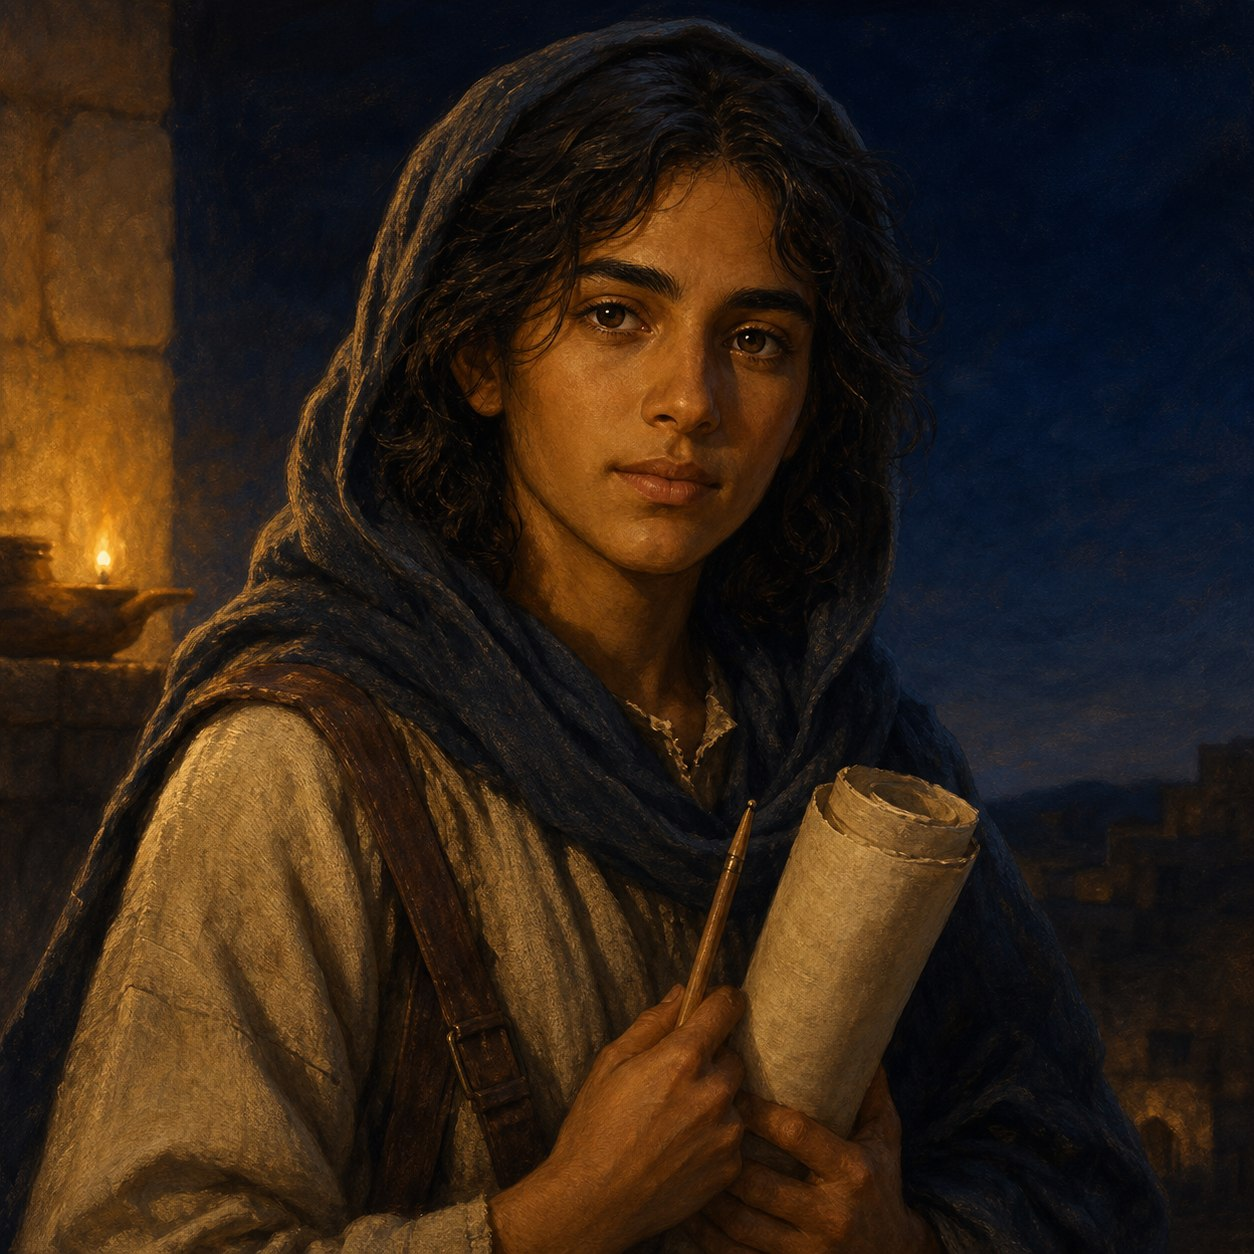
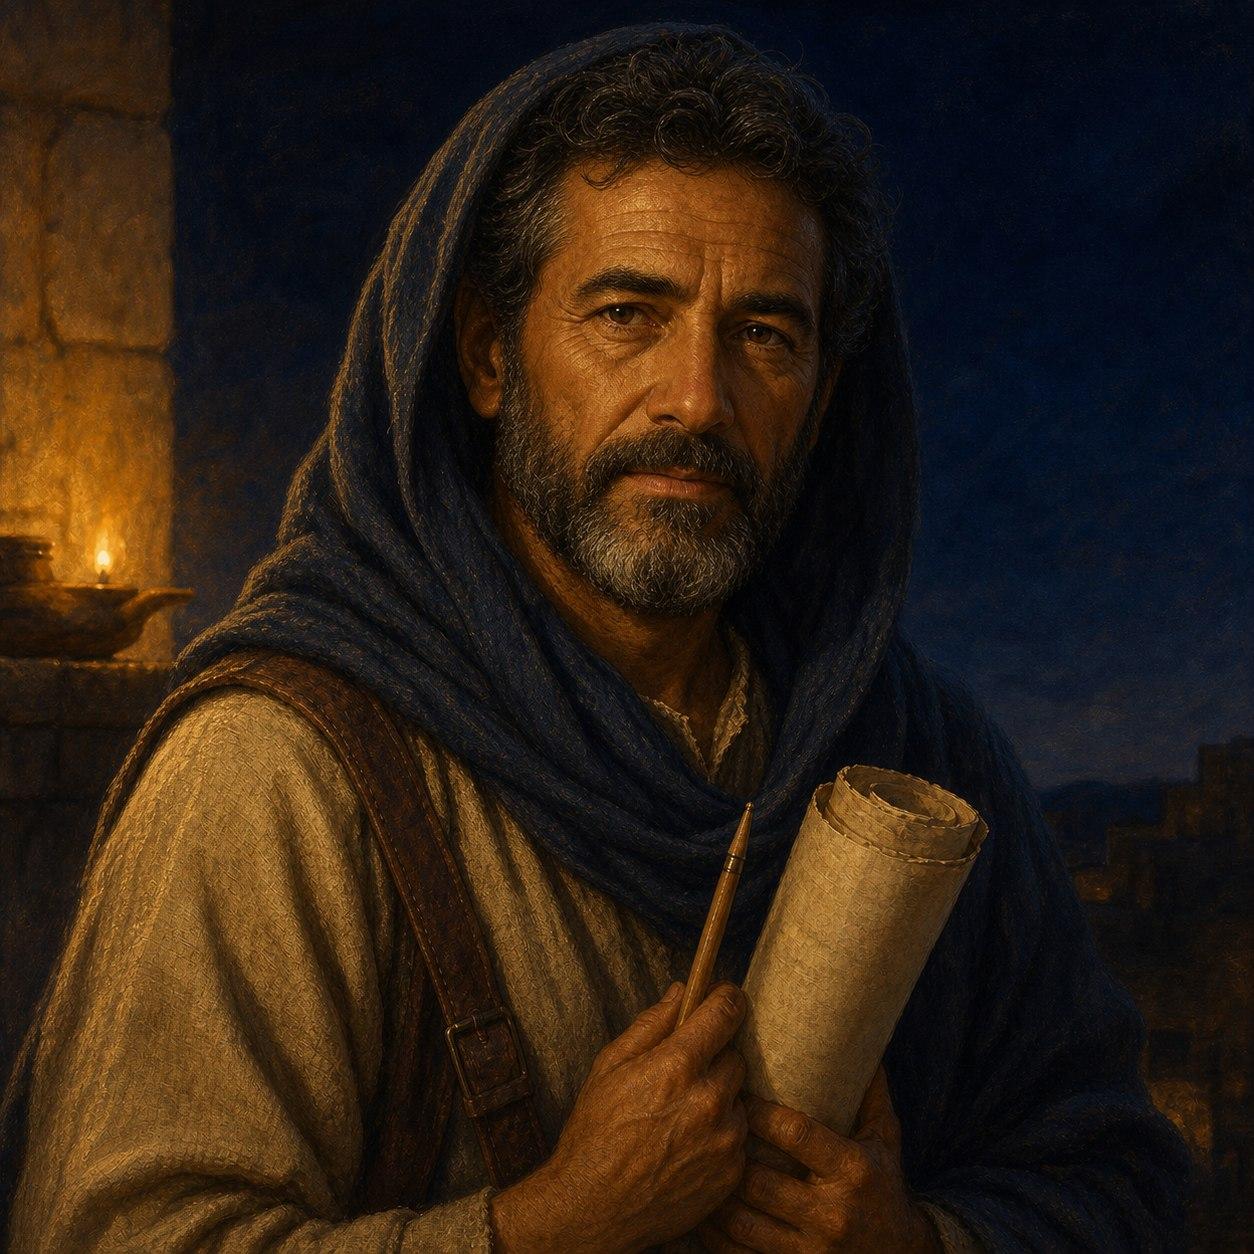
성경 스토리 엔딩 일지 삭제 및 타임라인/모바일 UI 개선
- 엔딩 화면의 "기록자의 일지 회고(story-ending-journal)" 섹션 및 관련 JS/CSS 완전히 삭제
- 연결 타임라인(story-connection-timeline) 디자인 개편: 무거운 박스 형태에서 CSS 카운터와 상단 괘선을 활용한 가벼운 스텝(Step) 형태로 변경하여 시선 흐름 개선
- 모바일 해상도 UI 최적화:
  - 매치 카드(story-match-pair)를 1줄 요약(제목 ↔ 출처)으로 압축하여 세로 스크롤 방지 (모바일에서 인용문 숨김 처리)
  - 타임라인 모바일 레이아웃을 1열에서 2열로 변경
- 엔딩 하단 안내 문구를 캡션(story-ending-caption)으로 변경하고 텍스트 내용 간소화
- 신규 캐릭터 이미지 리소스(bible-story-character-god.jpg, bible-story-character-people.jpg) 추가 및 기존 이미지(recorder.jpg) 업데이트
- 캐시 버스트 업데이트: bible-story.css v3.7 → v3.9, bible-story.js v3.3 → v3.4

diff --git a/src/main/resources/static/css/game/bible-story.css b/src/main/resources/static/css/game/bible-story.css
@@ -1500,68 +1500,31 @@ body.bible-story-page .site-header {
     line-height: 1.85;
 }
 
-.story-ending-journal {
-    max-width: 720px;
-    margin-top: 2.2rem;
-}
-
-.story-ending-journal h2 {
-    margin: 0 0 0.9rem;
-    color: var(--story-gold-bright);
-    font-size: 1rem;
-    letter-spacing: 0.06em;
-}
-
-.story-ending-journal ol {
-    display: grid;
-    gap: 0.7rem;
-    margin: 0;
-    padding: 0;
-    list-style: none;
-}
-
-.story-ending-journal li {
-    position: relative;
-    padding-left: 1rem;
-    color: rgba(255, 255, 255, 0.78);
-    font-size: 0.83rem;
-    line-height: 1.7;
-}
-
-.story-ending-journal li::before {
-    content: "";
-    position: absolute;
-    top: 0.55rem;
-    left: 0;
-    width: 0.4rem;
-    height: 0.4rem;
-    border-radius: 50%;
-    background: var(--story-gold-bright);
-}
-
-.story-ending-journal strong {
-    display: block;
-    color: rgba(255, 251, 240, 0.95);
-    font-size: 0.74rem;
-    letter-spacing: 0.04em;
-}
-
+/* 연결 타임라인: 박스 나열 대신 숫자·상단 괘선의 가벼운 스텝으로 시선 흐름만 남긴다 */
 .story-connection-timeline {
+    counter-reset: story-step;
     display: grid;
     grid-template-columns: repeat(4, minmax(0, 1fr));
-    gap: 1px;
+    gap: 1.4rem;
+    margin: 2.6rem 0 0;
     padding: 0;
-    margin: 2.5rem 0 0;
-    border-radius: 1rem;
-    overflow: hidden;
-    background: rgba(255, 255, 255, 0.14);
     list-style: none;
 }
 
 .story-connection-timeline li {
-    min-height: 190px;
-    padding: 1rem;
-    background: rgba(6, 18, 34, 0.72);
+    counter-increment: story-step;
+    padding-top: 0.85rem;
+    border-top: 1px solid rgba(255, 235, 185, 0.3);
+}
+
+.story-connection-timeline li::before {
+    content: counter(story-step, decimal-leading-zero);
+    display: block;
+    margin-bottom: 0.45rem;
+    color: rgba(255, 235, 185, 0.5);
+    font-size: 0.68rem;
+    font-weight: 800;
+    letter-spacing: 0.1em;
 }
 
 .story-connection-timeline span {
@@ -1572,33 +1535,26 @@ body.bible-story-page .site-header {
 
 .story-connection-timeline strong {
     display: block;
-    margin-top: 0.7rem;
+    margin-top: 0.35rem;
     font-family: "Noto Serif KR", Georgia, serif;
     font-size: 0.95rem;
 }
 
 .story-connection-timeline p {
-    margin: 0.45rem 0 0;
-    color: rgba(255, 255, 255, 0.62);
-    font-size: 0.75rem;
+    margin: 0.4rem 0 0;
+    color: rgba(255, 255, 255, 0.6);
+    font-size: 0.74rem;
     line-height: 1.55;
 }
 
-.story-ending-note {
+.story-ending-caption {
     display: flex;
-    align-items: flex-start;
-    gap: 0.8rem;
-    margin-top: 1rem;
-    padding: 1rem;
-    border: 1px solid rgba(255, 255, 255, 0.18);
-    border-radius: 0.8rem;
-    background: rgba(6, 18, 34, 0.45);
-}
-
-.story-ending-note p {
-    margin: 0;
-    color: rgba(255, 255, 255, 0.7);
-    font-size: 0.76rem;
+    align-items: center;
+    flex-wrap: wrap;
+    gap: 0.6rem;
+    margin: 1.6rem 0 0;
+    color: rgba(255, 255, 255, 0.66);
+    font-size: 0.78rem;
     line-height: 1.6;
 }
 
@@ -1651,7 +1607,7 @@ body.bible-story-page .site-header {
 
 html[data-theme="dark"] .story-badge,
 .story-match-capstone .story-badge,
-.story-ending-note .story-badge {
+.story-ending-caption .story-badge {
     color: var(--story-gold-bright);
 }
 
@@ -1908,13 +1864,32 @@ html[data-theme="dark"] .story-badge,
         padding: 0.65rem;
     }
 
+    /* 모바일: 연결 카드를 '제목 ↔ 출처' 한 줄 요약으로 압축 — 4장이 쌓여도 스크롤이 생기지 않게.
+       인용문 전문은 선택 다이얼로그·캡스톤·기록관에서 확인 가능 */
     .story-match-pair {
-        flex-wrap: wrap;
-        row-gap: 0.35rem;
+        gap: 0.5rem;
+        padding: 0.5rem 0.65rem;
+    }
+
+    .story-match-pair-fragment {
+        font-size: 0.76rem;
     }
 
     .story-match-pair-testimony {
-        flex: 1 1 100%;
+        flex: 0 1 auto;
+        margin-left: auto;
+        text-align: right;
+    }
+
+    .story-match-pair-testimony .story-match-quote {
+        display: none;
+    }
+
+    .story-match-pair-testimony .story-match-ref {
+        margin-top: 0;
+        color: rgba(255, 255, 255, 0.75);
+        font-size: 0.7rem;
+        white-space: nowrap;
     }
 
     .story-match-dialog {
@@ -1960,15 +1935,8 @@ html[data-theme="dark"] .story-badge,
     }
 
     .story-connection-timeline {
-        grid-template-columns: 1fr;
-    }
-
-    .story-connection-timeline li {
-        min-height: 0;
-    }
-
-    .story-ending-note {
-        flex-direction: column;
+        grid-template-columns: repeat(2, minmax(0, 1fr));
+        gap: 1.1rem;
     }
 
     .story-ending-content {

diff --git a/src/main/resources/templates/game/bible-story.html b/src/main/resources/templates/game/bible-story.html
@@ -1,7 +1,7 @@
 <!DOCTYPE html>
 <html xmlns:th="http://www.thymeleaf.org" lang="ko">
 <head
-        th:replace="~{fragments/head :: head('어린양의 약속 | ElSeeker', true, '/css/game/bible-story.css?v=3.7')}"
+        th:replace="~{fragments/head :: head('어린양의 약속 | ElSeeker', true, '/css/game/bible-story.css?v=3.9')}"
         th:with="robotsContent='noindex',
                  pageDescription='유월절의 밤을 직접 준비하고, 바다를 건너고, 만나를 거두며 십자가와 부활에서 그 의미를 발견하는 성경 스토리 체험입니다.'">
 </head>
@@ -90,11 +90,6 @@
 
             <blockquote class="story-epilogue" id="storyEpilogue"></blockquote>
 
-            <section class="story-ending-journal" aria-labelledby="storyEndingJournalTitle">
-                <h2 id="storyEndingJournalTitle">기록자의 일지 회고</h2>
-                <ol id="storyEndingJournal"></ol>
-            </section>
-
             <ol class="story-connection-timeline" aria-label="유월절과 그리스도의 연결">
                 <li>
                     <span>출애굽기 12장</span>
@@ -118,13 +113,10 @@
                 </li>
             </ol>
 
-            <div class="story-ending-note">
+            <p class="story-ending-caption">
                 <span class="story-badge story-badge-direct">성경의 직접 연결</span>
-                <p>
-                    이 연결은 게임이 만들어 낸 결말이 아닙니다. 유월절 사건을 먼저 체험하고,
-                    신약이 밝히는 의미를 당신의 손으로 이어 확인하도록 구성했습니다.
-                </p>
-            </div>
+                이 연결은 게임이 만든 결말이 아니라, 신약이 직접 증언하는 결말입니다.
+            </p>
 
             <div class="story-ending-actions">
                 <button type="button" class="story-btn story-btn-primary" id="storyEndingSheetButton">
@@ -182,6 +174,6 @@
 </dialog>
 
 <div class="visually-hidden" id="storyLiveRegion" aria-live="polite" aria-atomic="true"></div>
-<script type="module" src="/js/game/bible-story.js?v=3.3"></script>
+<script type="module" src="/js/game/bible-story.js?v=3.4"></script>
 </body>
 </html>

diff --git a/src/main/resources/static/js/game/bible-story.js b/src/main/resources/static/js/game/bible-story.js
@@ -483,7 +483,7 @@ function cacheElements() {
     'storySheet', 'storySheetClose', 'storyTabJournal', 'storyTabArchive',
     'storyJournalPanel', 'storyArchivePanel', 'storyJournalList', 'storyJournalEmpty',
     'storyArchiveRecords', 'storyResetButton', 'storyEndingTitle', 'storyEpilogue',
-    'storyEndingJournal', 'storyEndingSheetButton', 'storyRestartButton', 'storyLiveRegion'
+    'storyEndingSheetButton', 'storyRestartButton', 'storyLiveRegion'
   ].forEach((id) => {
     elements[id] = document.getElementById(id);
   });
@@ -1391,12 +1391,6 @@ function showEnding() {
   elements.storyEnding.classList.remove('d-none');
   document.body.classList.remove('is-story-playing');
   elements.storyEpilogue.textContent = buildEpilogue();
-  elements.storyEndingJournal.innerHTML = state.journal.map((entry) => `
-        <li>
-            <strong>${entry.sceneTitle}</strong>
-            <span>${entry.text}</span>
-        </li>
-    `).join('');
   renderSheet();
   window.scrollTo({top: 0, behavior: prefersReducedMotion() ? 'auto' : 'smooth'});
   requestAnimationFrame(() => elements.storyEndingTitle.focus?.());
